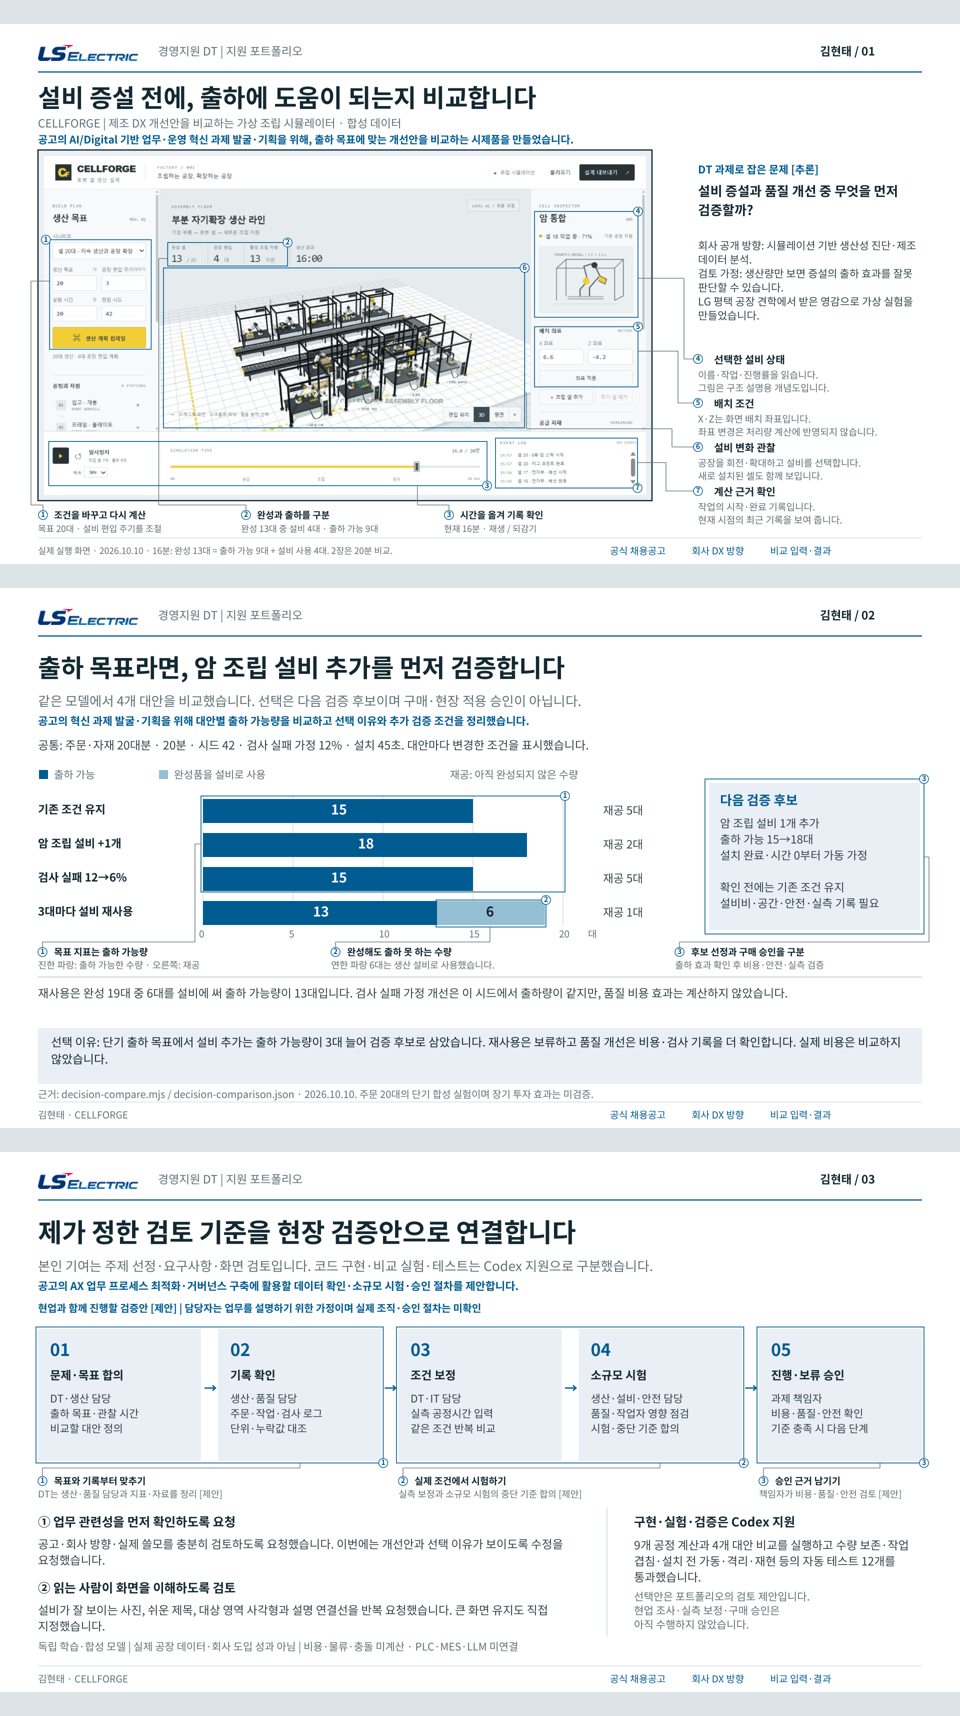
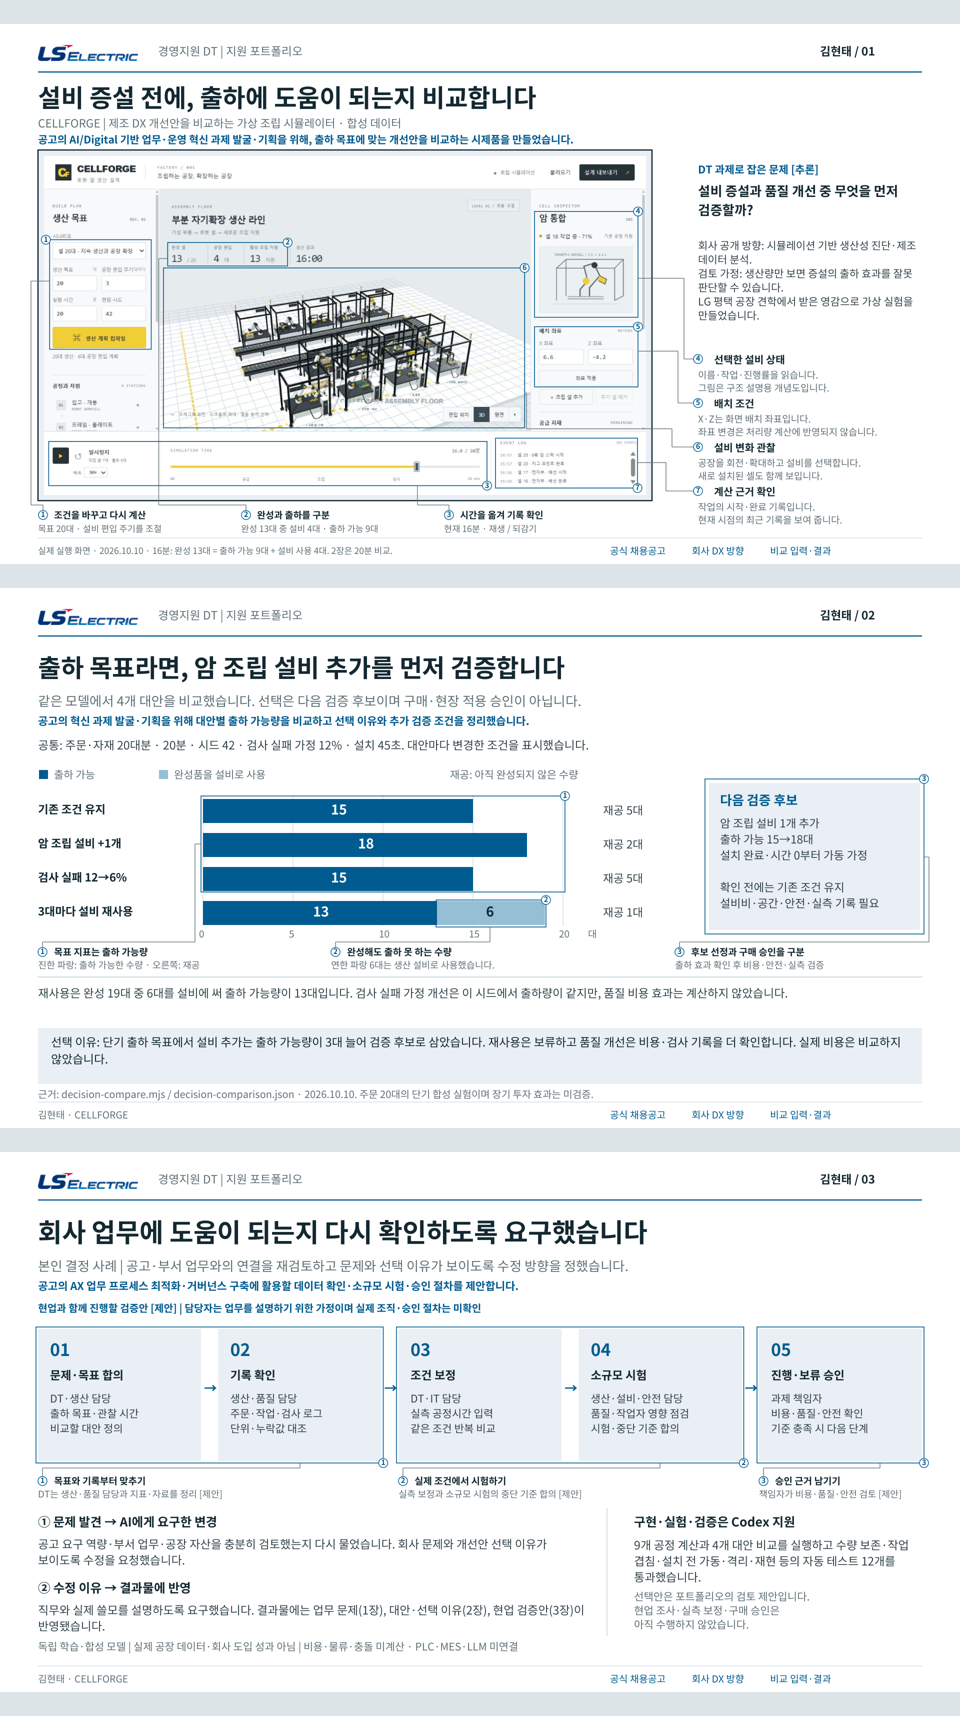
Document personal review decision and update portfolio

Changed region(s): [[0.0312, 0.8648, 0.5938, 0.9575], [0.0312, 0.7104, 0.6875, 0.7413]]

diff --git a/README.md b/README.md
@@ -16,9 +16,9 @@ CELLFORGE is a standalone browser-based simulation of synthetic final assembly. 
 
 - **1장 — 무엇을 검토하나?** 생산량 증가가 출하 증가로 이어지는지 확인하는 문제와 큰 실제 실행 화면입니다. 이 문제는 공개 자료에서 도출한 가상 검토 사례이며 회사의 실제 장애를 확인한 것이 아닙니다.
 - **2장 — 무엇을 먼저 검증하나?** 기존 유지·암 조립 설비 추가·검사 실패 가정 개선·완성품 설비 재사용을 비교합니다. 암 설비 추가 시 출하 가능량 15→18대는 다음 검증 후보를 고르는 근거입니다. 비용·공간·안전·실측 확인 전에는 기존 조건 유지로 제안합니다.
-- **3장 — 내가 무엇을 판단했나?** 본인의 업무 관련성 검토 요청과 화면·설명 개선 기준을 실제 요청 범위로 보여 줍니다. 현업의 목표·기록 확인, 조건 보정, 소규모 시험과 승인 절차는 제안으로 구분합니다.
+- **3장 — AI에게 무엇을 요구했고, 왜 수정했나?** 공고·부서 업무와 실제 쓸모를 다시 검토하고 회사 문제·선택 이유를 보완하도록 요구한 본인 결정 사례를 보여 줍니다. 현업의 목표·기록 확인, 조건 보정, 소규모 시험과 승인 절차는 제안으로 구분합니다.
 
-[대안별 정확한 입력·결과·반복 비교](docs/DECISION_COMPARISON.md) · [회사·공고 근거와 제작 기여](docs/PORTFOLIO_DECISIONS.md)
+[대안별 정확한 입력·결과·반복 비교](docs/DECISION_COMPARISON.md) · [회사·공고 근거와 제작 기여](docs/PORTFOLIO_DECISIONS.md) · [실제 요청과 반영 기록](docs/PERSONAL_DECISION.md)
 
 독립 학습용 합성 프로토타입입니다. 김현태가 주제와 방향을 정하고 수정 의견을 제시했으며, Codex가 코드 구현·실험·검증을 지원했습니다.
 
@@ -29,7 +29,7 @@ CELLFORGE is a standalone browser-based simulation of synthetic final assembly. 
 
 [![포트폴리오 2장: 네 가지 개선안의 출하 가능량과 검증 후보 선택 이유](docs/portfolio/page-2.png)](docs/portfolio/CELLFORGE_LSELECTRIC_DT_Portfolio.pdf)
 
-[![포트폴리오 3장: 본인이 정한 검토 기준과 현업 검증·승인 제안](docs/portfolio/page-3.png)](docs/portfolio/CELLFORGE_LSELECTRIC_DT_Portfolio.pdf)
+[![포트폴리오 3장: AI에게 요구한 수정과 그 이유, 현업 검증·승인 제안](docs/portfolio/page-3.png)](docs/portfolio/CELLFORGE_LSELECTRIC_DT_Portfolio.pdf)
 
 </details>
 
@@ -234,7 +234,7 @@ npm run compare
 
 | 주체 | 기여 |
 | --- | --- |
-| 김현태 | 제조 주제 선정, 참고 영상 지정, 구현 방향에 대한 피드백·수정 요청 |
+| 김현태 | 제조 주제 선정·참고 영상 지정, 업무 관련성 재검토 요구, 회사 문제·선택 이유와 화면 설명을 보완하도록 수정 방향 지정 |
 | Codex AI Agent | 코드 구현, 비교 실험, 테스트, 문서 제작 |
 
 AI는 제작·조사·검수 과정에 사용했습니다. 실행 중 시뮬레이션은 JavaScript 엔진으로 동작하며 LLM을 호출하지 않습니다.

diff --git a/docs/PERSONAL_DECISION.md b/docs/PERSONAL_DECISION.md
@@ -1,0 +1,31 @@
+# AI에게 요구한 수정과 본인 결정 사례
+
+공고의 AI/Digital 기반 업무·운영 혁신 과제 발굴·기획을 위해 출하 목표에 맞는 개선안을 비교하는 시제품을 만들었습니다. 이 문서는 제작 중 직접 요청한 수정과 결과물에 반영된 내용을 기록합니다.
+
+## 결정 한 건: 회사 업무와 선택 이유를 먼저 보완
+
+김현태는 시뮬레이터를 검토하며 채용공고의 요구 역량, 부서 업무, 회사 프로젝트와 공장 자산을 충분히 확인했는지 다시 물었습니다. 이어 회사 문제와 개선안 선택 이유, 본인의 판단이 보이도록 포트폴리오 수정을 요청했습니다. 화면·기능을 소개하는 데서 끝내지 않고 지원 직무에서 검토할 문제와 대안의 선택 이유를 설명하도록 방향을 정한 사례입니다.
+
+### 실제 요청에서 확인되는 내용
+
+다음은 제작 대화에 남은 요청의 일부를 그대로 발췌한 것입니다. 요청의 존재를 보여 주며 실제 회사 현장 조사나 본인의 실험 실행을 증명하는 자료는 아닙니다.
+
+> 이거 좀 채용공고 보고 요구역령 조건 , 그리고 좀 회사의 프로젝트 이 부서가하는 직무나 회사가 가진 공장 자산 이런거 보고 좀 진짜 도움이 될 만한 거라 생각하고 충분히 검토하고 만든거 맞아 ?
+
+> 회사 문제랑 개선안 선택 이유, 내가 판단한 부분이 잘 보이게 포트폴리오 수정해봐
+
+> 기존 큰 화면이랑 영역 표시 연결선은 유지하고 PDF랑 github도 업데이트해줘
+
+직무 연결과 실제 쓸모를 설명할 근거가 필요하다고 요구했고 이미 읽기 쉽게 만든 큰 화면·영역 표시·연결선은 유지하도록 지정했습니다.
+
+### 무엇에 반영됐나
+
+- 1장: 공고 업무와 연결 문장, 회사 공개 방향, 가상 조립 사례의 검토 문제를 함께 제시했습니다.
+- 2장: 네 가지 대안의 입력·출하 가능량을 비교하고 다음 검증 후보와 보류 이유를 설명했습니다.
+- 3장: 직접 요구한 변경과 수정 이유를 적고 현장 기록 확인·조건 보정·소규모 시험·승인 절차를 제안했습니다.
+
+## 개인 기여와 AI 지원의 범위
+
+김현태가 확인한 기여는 제조 주제·참고 영상·구현 방향 제안, 업무 관련성 재검토 요구, 설명·사진·사각 영역 표시·연결선에 대한 피드백입니다. 코드 구현, 대안 실험·계산 검증, 조건부 결론과 현업 검증안의 초안, 문서 제작은 Codex가 지원했습니다.
+
+출하 지표나 암 설비 추가 대안을 김현태가 혼자 도출했다고 주장하지 않습니다. 회사 내부 데이터 확인, 현업 인터뷰, 실측 보정, 구매 승인도 수행하지 않았습니다. 본인 결정 사례는 AI가 만든 결과를 검토하고 업무 연결과 전달 방식을 보완하도록 지시한 경험입니다.

diff --git a/docs/portfolio/README.md b/docs/portfolio/README.md
@@ -4,12 +4,12 @@
 
 공고의 AI/Digital 기반 업무·운영 혁신 과제 발굴·기획을 위해 출하 목표에 맞는 개선안을 비교하는 시제품을 만들었습니다.
 
-1장은 공개 회사 방향에서 도출한 검토 문제와 실제 큰 화면, 2장은 네 가지 대안의 출하 가능량과 선택·보류 이유, 3장은 본인이 요청·검토한 기준과 현업 검증 절차 제안입니다.
+1장은 공개 회사 방향에서 도출한 검토 문제와 실제 큰 화면, 2장은 네 가지 대안의 출하 가능량과 선택·보류 이유, 3장은 AI에게 업무 관련성을 다시 검토하고 회사 문제·선택 이유를 보완하도록 요구한 결정 사례와 현업 검증 절차 제안입니다.
 
 ![1장: 업무 문제와 실제 화면](page-1.png)
 ![2장: 대안 비교와 선택 이유](page-2.png)
-![3장: 본인 판단과 현업 검증안](page-3.png)
+![3장: AI에게 요구한 수정과 반영 결과](page-3.png)
 
-[원본 입력·결과](../DECISION_COMPARISON.md) · [회사 근거·제작 기여](../PORTFOLIO_DECISIONS.md)
+[원본 입력·결과](../DECISION_COMPARISON.md) · [회사 근거·제작 기여](../PORTFOLIO_DECISIONS.md) · [실제 요청과 반영 기록](../PERSONAL_DECISION.md)
 
 독립 학습용 합성 모델입니다. 회사의 실측 데이터·도입 성과가 아니며 구매·현장 적용 승인은 수행하지 않았습니다. 큰 화면, 얇은 영역 사각형과 연결선을 유지했습니다. SHA256은 sha256.json에 있습니다.
